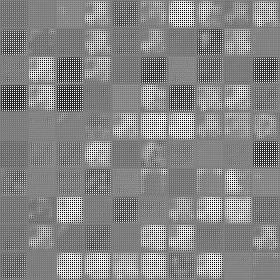
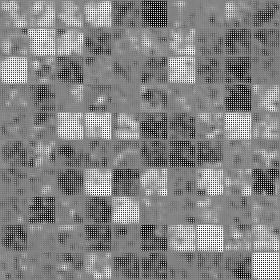
Adding relevant images

diff --git a/elements/dcgan.py b/elements/dcgan.py
@@ -113,7 +113,7 @@ class DCGAN():
 				name='dense_2',	reuse=scope.reuse)
 			h2_relu = tf.nn.relu(self.normalize(h2))
 			h2_concat = self.normalize(tf.concat(axis=3,
-				values=[tf.reshape(h2, shape=[self.batch_size,self.dim_4,self.dim_4,self.dim2]), 
+				values=[tf.reshape(h2_relu, shape=[self.batch_size,self.dim_4,self.dim_4,self.dim2]), 
 				ystack*tf.ones(shape=[self.batch_size, self.dim_4, self.dim_4, 
 				self.num_class])]),
 				flag=True)
@@ -157,7 +157,7 @@ class DCGAN():
 				kernel_initializer=self.initializer,
 				reuse=scope.reuse, name="conv_1")
 			h1_relu = LeakyReLU(self.normalize(h1,flag=True))
-			h1_concat = tf.concat(axis=3, values=[h1, yneed_2])
+			h1_concat = tf.concat(axis=3, values=[h1_relu, yneed_2])
 			h2 = tf.layers.conv2d(h1_concat, filters=self.dim3, kernel_size=[4,4],
 				strides=[2,2], padding='SAME',
 				activation=None, 
